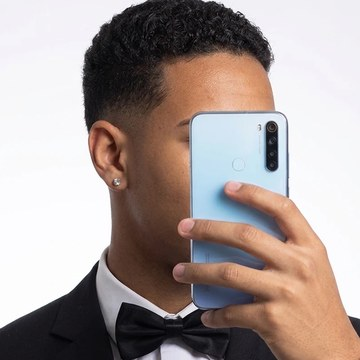
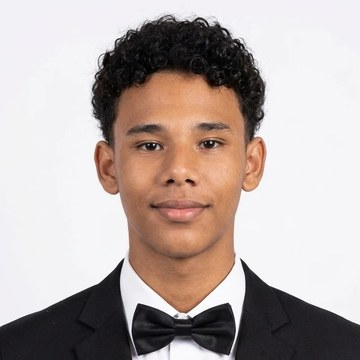
Foto nova do Ltzin
Claude-Session: https://claude.ai/code/session_01Vb9jCdZ8cmeMztXeSQkbhq

diff --git a/public/index.html b/public/index.html
@@ -197,7 +197,7 @@ const GALERA = [
   { nome: 'Poli', papel: 'Especialista em áudio', frase: 'Ouvido absoluto, além de ser o rei do entretenimento.', foto: '/galera/poli.jpg?v=1' },
   { nome: 'Cas', papel: 'DJ muito bem CASADO', frase: 'Às vezes ele diz que tá trabalhando, mas todo mundo sabe que é mentira.', foto: '/galera/cas.jpg?v=1' },
   { nome: 'Gelado', papel: 'Empresário e magnata', frase: 'Não faz menos que R$500 por dia.', foto: '/galera/gelado.jpg?v=2' },
-  { nome: 'Ltzin', papel: 'Rei de Recife', frase: 'E ele pode dar choque no seu sistema.', foto: '/galera/ltzin.jpg?v=1' },
+  { nome: 'Ltzin', papel: 'Rei de Recife', frase: 'E ele pode dar choque no seu sistema.', foto: '/galera/ltzin.jpg?v=2' },
   { nome: 'Matt', papel: 'Especialista em Claude', frase: 'Artista, criador de games, CEO e humorista nas horas vagas.', foto: '/galera/matt.jpg?v=1' },
   { nome: 'Luketa', papel: 'Beatmaker', frase: 'Melhor amigo do Claude e amor da vida do Ltzin.', foto: '/galera/luketa.jpg?v=1' },
   { nome: 'Nerivan', papel: 'Rei da engenharia social', frase: 'Especialidade com idosas pelo call center.', foto: '/galera/nerivan.jpg?v=1' },
